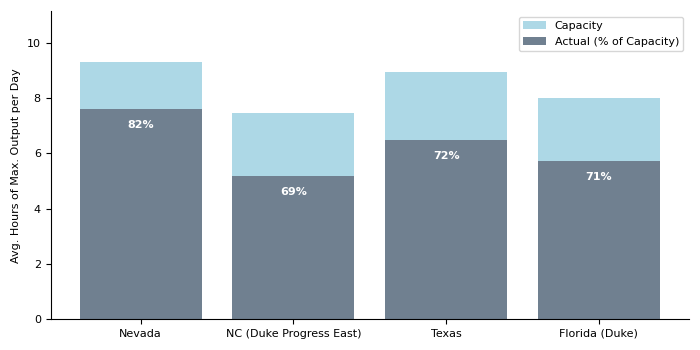
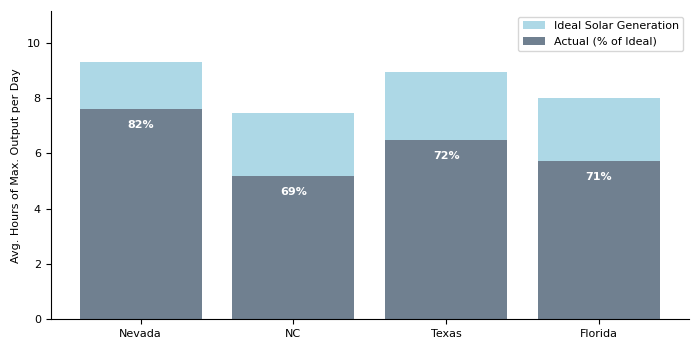
chart title clean-ups

Changed region(s): [[0.78, 0.0571, 0.96, 0.1429], [0.33, 0.9429, 0.51, 0.9714], [0.78, 0.9429, 0.93, 0.9714]]

diff --git a/post4_solar.py b/post4_solar.py
@@ -25,8 +25,7 @@ def keyGenerationStats(hourlyValues):
     stats["totalGen"] = sum(hourlyValues)
     stats["equivHours"] = stats["totalGen"]/stats["maxGen"]
     stats["activeHours"] = sum([1 if x > 0.1*stats["maxGen"] else 0 for x in hourlyValues])                        
-    stats["strongHours"] = sum([1 if x > 0.6*stats["maxGen"] else 0 for x in hourlyValues])                        
-                 
+    stats["strongHours"] = sum([1 if x > 0.6*stats["maxGen"] else 0 for x in hourlyValues])                                
     return stats
 
 
@@ -41,8 +40,6 @@ def prepChart(dims):
 
 
 def dailyGenerationChart(eiag: EIAGeneration, starts: List[datetime], ends: List[datetime], plot_titles: List[str], path: str):
-    print("daily generation chart, hello")
-    
     plots = len(starts)
     fig, axes = plt.subplots(nrows = 1, ncols = plots, sharey = True, figsize = (8, 3))
 
@@ -179,7 +176,7 @@ if __name__ == "__main__":
                
 
     # chart 4: line chart for every month
-    y_axis_label = f"Hourly {StateName} Solar Generation Capacity (MWh)"                            
+    y_axis_label = f"{StateName} Ideal Solar Generation by Hour of Day(MWh)"                            
 
     HourlyChart.hourlyLineChart(x_values,
                                 y_values_list_top, ## HOURS!
@@ -215,8 +212,8 @@ if __name__ == "__main__":
         print("".join(row_html))
 
     row_html = ["<tr>\n"]
-    row_html.append('<th scope="col" style="background-color: #D6EEEE">24h of Max. Summer Sun</th>/n')
-    row_html.append(f'<td>{24h x Max. Physical Output:,.0f}</td> <td>{max_hour:,.0f}</td><td>-</td><td>-</td><td>24</td>')
+    row_html.append('<th scope="col" style="background-color: #D6EEEE">24h x Max. Physical Output</th>/n')
+    row_html.append(f'<td>{24*max_hour:,.0f}</td> <td>{max_hour:,.0f}</td><td>-</td><td>-</td><td>24</td>')
     row_html.append('</tr>\n')
     print("".join(row_html))
 
@@ -229,7 +226,7 @@ if __name__ == "__main__":
 
     MonthlyPlots.monthlyUsageLineChart(months,
                                        [capacities_by_month, actuals_by_month],
-                                       ["Month's Perfect-Weather Capacity", "2022 Actual (% of Month's Capacity)"],
+                                       ["Month's Ideal Solar Generation", "2022 Actual (% of Month's Capacity)"],
                                        ["lightblue", "blue"],
                                        None,
                                        f"post4/post4_{BAname}_monthly.png",
@@ -247,7 +244,7 @@ if __name__ == "__main__":
     # loop over multiple states
 
     BAs = ["NVPower", "DukeEast", "ERCOT", "DukeFL"]
-    States = ["Nevada", "NC (Duke Progress East)", "Texas", "Florida (Duke)"]
+    States = ["Nevada", "NC", "Texas", "Florida"]
 
     nMonths = 12*(end.year - start.year) + (end.month - start.month)
     month_names = [(start + relativedelta(months = month)).strftime("%b") for month in range(nMonths)]
@@ -302,7 +299,7 @@ if __name__ == "__main__":
                                        [capacity_by_month[BA] for BA in BAs],
                                        States,
                                        ["lightblue", "blue", "green", "purple"],
-                                       "Perfect-Weather Capacity by Month and Locale",
+                                       "Ideal Solar Generation by Month and Locale",
                                        f"post4/post4_multi_state.png",
                                        show_average = False,
                                        text_label_list = None,
@@ -319,11 +316,11 @@ if __name__ == "__main__":
     
     HourlyChart.hourlyLineChart(x_values,
                                 normalized_hourlies, 
-                                "Hourly Capacity in June (scaled to max.)",
+                                "Ideal Generation by Hour of Day (normalized)",
                                 States,
                                 ["lightblue", "blue", "green", "purple"],
                                 f"post4/post4_multi_state_june_hours.png",
-                                title = None,
+                                title = "June 2022",
                                 x_axis_label = "Hour Starting (Standard Time)",
                                 annotate = None,
                                 ymax = None,
@@ -335,10 +332,10 @@ if __name__ == "__main__":
     #ugh a bar chart
     fig, ax = prepChart(dims = (7, 3.5))
     plots = []
-    plots.append(ax.bar(States, [total_capacity[BA] for BA in BAs], label = "Capacity", color = "lightblue"))
+    plots.append(ax.bar(States, [total_capacity[BA] for BA in BAs], label = "Ideal Solar Generation", color = "lightblue"))
     #ax.bar_label(plots[-1], fmt = fmt_str, padding = 5)
 
-    plots.append(ax.bar(States, [total_actual[BA] for BA in BAs], label = "Actual (% of Capacity)", color = "slategray"))
+    plots.append(ax.bar(States, [total_actual[BA] for BA in BAs], label = "Actual (% of Ideal)", color = "slategray"))
     ax.bar_label(plots[-1],
                  labels = [f"{total_actual[BA]/total_capacity[BA]*100:.0f}%" for BA in BAs],
                  padding = -15,
@@ -353,7 +350,7 @@ if __name__ == "__main__":
     ax.set_ylabel("Avg. Hours of Max. Output per Day")
     ax.legend(loc = "upper right")
     fig.tight_layout(pad = 1.0)
-    #ax.set_title(title)
+
     plt.savefig(f"post4/post4_multi_state_bar.png")
     plt.show()
     plt.close()

diff --git a/periodicCharts.py b/periodicCharts.py
@@ -82,7 +82,7 @@ class HourlyChart:
         ax.legend(loc = "upper left")
         ax.set_ylabel(y_axis_label)
 
-        if title is not None: ax.set_title(title)
+        if title is not None: ax.set_title(title, fontsize = 8)
         if x_axis_label is not None: ax.set_xlabel(x_axis_label)
 
         fig.tight_layout(pad = 1.0)
